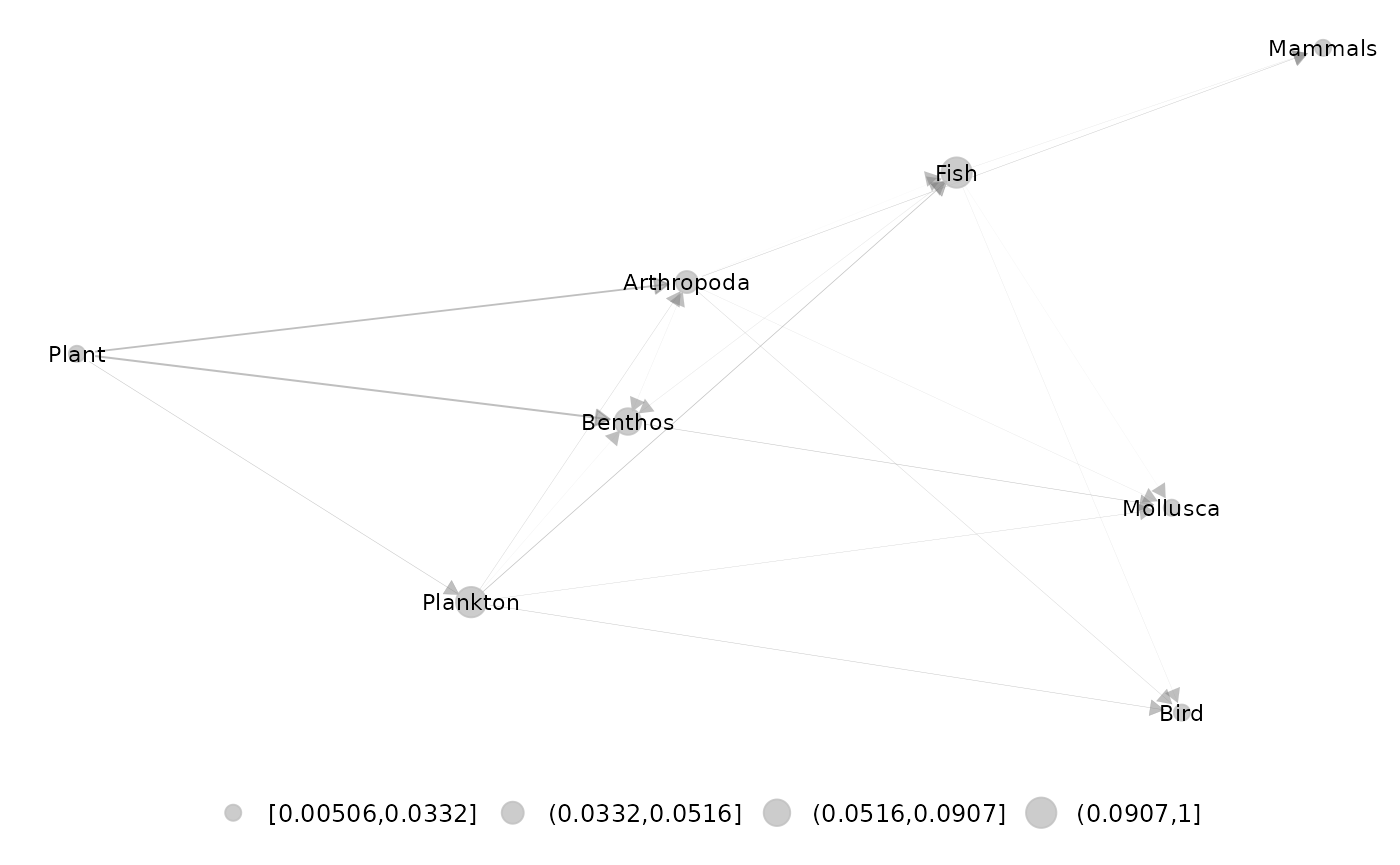
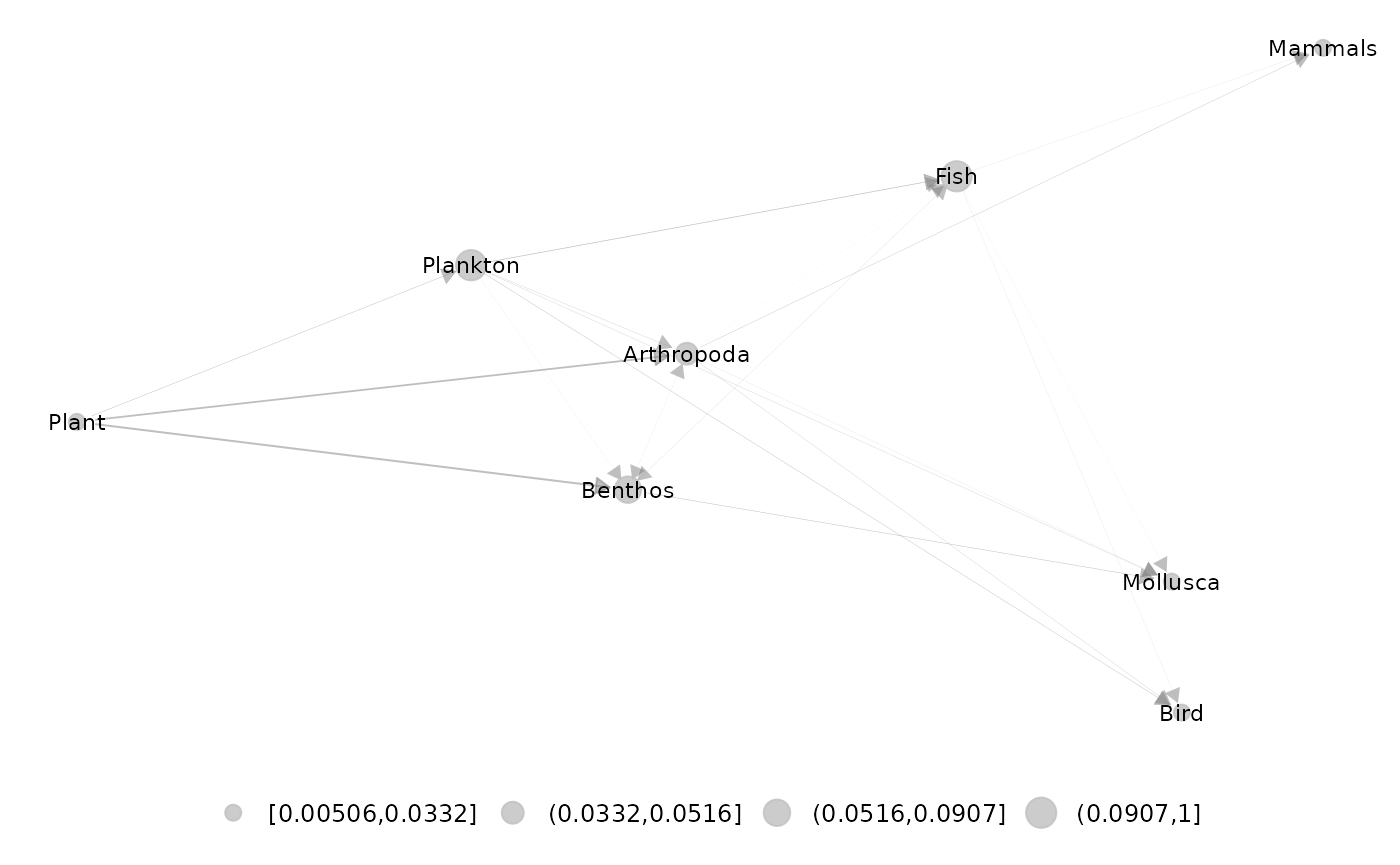
Built site for metanetwork: 0.1.2@bdfe743

diff --git a/reference/attach_layout.html b/reference/attach_layout.html
@@ -117,42 +117,40 @@ squeezing of the network</p></dd>
 <span class="r-in"><span class="co"># on angola dataset (metaweb)</span></span>
 <span class="r-in"><span class="va">meta_angola</span> <span class="op">=</span> <span class="fu">attach_layout</span><span class="op">(</span><span class="va">meta_angola</span>,beta <span class="op">=</span> <span class="fl">0.05</span><span class="op">)</span></span>
 <span class="r-msg co"><span class="r-pr">#&gt;</span> beta = 0.05</span>
-<span class="r-msg co"><span class="r-pr">#&gt;</span> Epoch: Iteration #100 error is: 907.410775019682</span>
-<span class="r-msg co"><span class="r-pr">#&gt;</span> Epoch: Iteration #200 error is: 217.12039627624</span>
-<span class="r-msg co"><span class="r-pr">#&gt;</span> Epoch: Iteration #300 error is: 217.258520669387</span>
+<span class="r-msg co"><span class="r-pr">#&gt;</span> Epoch: Iteration #100 error is: 907.410775023906</span>
+<span class="r-msg co"><span class="r-pr">#&gt;</span> Epoch: Iteration #200 error is: 217.136411528905</span>
+<span class="r-msg co"><span class="r-pr">#&gt;</span> Epoch: Iteration #300 error is: 217.261841760851</span>
 <span class="r-in"><span class="fu"><a href="https://rdrr.io/pkg/igraph/man/V.html" class="external-link">V</a></span><span class="op">(</span><span class="va">meta_angola</span><span class="op">$</span><span class="va">metaweb</span><span class="op">)</span><span class="op">$</span><span class="va">layout_beta0.05</span></span>
-<span class="r-out co"><span class="r-pr">#&gt;</span>  [1] -25.21541703  -5.88255217   4.64476720  -3.98169643 -12.06728541</span>
-<span class="r-out co"><span class="r-pr">#&gt;</span>  [6]  14.62067716  28.68986159   6.88435037  19.86173476  21.86623346</span>
-<span class="r-out co"><span class="r-pr">#&gt;</span> [11]  10.77391762  25.12727789 -14.71067527 -19.61246381 -29.13179573</span>
-<span class="r-out co"><span class="r-pr">#&gt;</span> [16]   0.09511713 -22.15256605   2.32850025  -2.11209611  17.01456460</span>
-<span class="r-out co"><span class="r-pr">#&gt;</span> [21]  -9.23073402 -16.91095269   8.89554269  12.68052089  -7.92466465</span>
-<span class="r-out co"><span class="r-pr">#&gt;</span> [26] -10.37640415 -12.82672632  18.65296424</span>
+<span class="r-out co"><span class="r-pr">#&gt;</span>  [1] -25.6389600  -9.7556157   4.6830265 -11.4779910  -6.0296047  11.0068779</span>
+<span class="r-out co"><span class="r-pr">#&gt;</span>  [7]  26.5035220   6.9704249  30.2453603  20.7763527  14.9616062  23.5376816</span>
+<span class="r-out co"><span class="r-pr">#&gt;</span> [13] -19.5243515 -14.5451524 -22.1550407  -1.9408720 -17.0855702   2.3439215</span>
+<span class="r-out co"><span class="r-pr">#&gt;</span> [19]   0.2421588  17.3964390  -4.0026558 -30.0075046   8.9809911  13.0759586</span>
+<span class="r-out co"><span class="r-pr">#&gt;</span> [25]  -7.8724348 -12.9126292 -16.7819986  19.0060599</span>
 <span class="r-in"><span class="co"># on a local network</span></span>
 <span class="r-in"><span class="va">meta_angola</span> <span class="op">=</span> <span class="fu">attach_layout</span><span class="op">(</span><span class="va">meta_angola</span>,g <span class="op">=</span> <span class="va">meta_angola</span><span class="op">$</span><span class="va">X1986</span>,beta <span class="op">=</span> <span class="fl">0.05</span><span class="op">)</span></span>
 <span class="r-msg co"><span class="r-pr">#&gt;</span> beta = 0.05</span>
-<span class="r-msg co"><span class="r-pr">#&gt;</span> Epoch: Iteration #100 error is: 907.410775018164</span>
-<span class="r-msg co"><span class="r-pr">#&gt;</span> Epoch: Iteration #200 error is: 217.112616755559</span>
-<span class="r-msg co"><span class="r-pr">#&gt;</span> Epoch: Iteration #300 error is: 217.231233731001</span>
+<span class="r-msg co"><span class="r-pr">#&gt;</span> Epoch: Iteration #100 error is: 907.410775019346</span>
+<span class="r-msg co"><span class="r-pr">#&gt;</span> Epoch: Iteration #200 error is: 217.131966156928</span>
+<span class="r-msg co"><span class="r-pr">#&gt;</span> Epoch: Iteration #300 error is: 217.258691083429</span>
 <span class="r-in"></span>
 <span class="r-in"><span class="co"># getting repetitions</span></span>
 <span class="r-in"><span class="va">meta_angola</span> <span class="op">=</span> <span class="fu">attach_layout</span><span class="op">(</span><span class="va">meta_angola</span>,beta <span class="op">=</span> <span class="fl">0.05</span><span class="op">)</span></span>
 <span class="r-msg co"><span class="r-pr">#&gt;</span> beta = 0.05</span>
-<span class="r-msg co"><span class="r-pr">#&gt;</span> Epoch: Iteration #100 error is: 907.410775018656</span>
-<span class="r-msg co"><span class="r-pr">#&gt;</span> Epoch: Iteration #200 error is: 217.129399239016</span>
-<span class="r-msg co"><span class="r-pr">#&gt;</span> Epoch: Iteration #300 error is: 217.243510216642</span>
+<span class="r-msg co"><span class="r-pr">#&gt;</span> Epoch: Iteration #100 error is: 907.410775018356</span>
+<span class="r-msg co"><span class="r-pr">#&gt;</span> Epoch: Iteration #200 error is: 217.117786075899</span>
+<span class="r-msg co"><span class="r-pr">#&gt;</span> Epoch: Iteration #300 error is: 217.229981255709</span>
 <span class="r-in"><span class="fu"><a href="https://rdrr.io/pkg/igraph/man/V.html" class="external-link">V</a></span><span class="op">(</span><span class="va">meta_angola</span><span class="op">$</span><span class="va">metaweb</span><span class="op">)</span><span class="op">$</span><span class="va">layout_beta0.05</span></span>
-<span class="r-out co"><span class="r-pr">#&gt;</span>  [1] -25.21541703  -5.88255217   4.64476720  -3.98169643 -12.06728541</span>
-<span class="r-out co"><span class="r-pr">#&gt;</span>  [6]  14.62067716  28.68986159   6.88435037  19.86173476  21.86623346</span>
-<span class="r-out co"><span class="r-pr">#&gt;</span> [11]  10.77391762  25.12727789 -14.71067527 -19.61246381 -29.13179573</span>
-<span class="r-out co"><span class="r-pr">#&gt;</span> [16]   0.09511713 -22.15256605   2.32850025  -2.11209611  17.01456460</span>
-<span class="r-out co"><span class="r-pr">#&gt;</span> [21]  -9.23073402 -16.91095269   8.89554269  12.68052089  -7.92466465</span>
-<span class="r-out co"><span class="r-pr">#&gt;</span> [26] -10.37640415 -12.82672632  18.65296424</span>
+<span class="r-out co"><span class="r-pr">#&gt;</span>  [1] -25.6389600  -9.7556157   4.6830265 -11.4779910  -6.0296047  11.0068779</span>
+<span class="r-out co"><span class="r-pr">#&gt;</span>  [7]  26.5035220   6.9704249  30.2453603  20.7763527  14.9616062  23.5376816</span>
+<span class="r-out co"><span class="r-pr">#&gt;</span> [13] -19.5243515 -14.5451524 -22.1550407  -1.9408720 -17.0855702   2.3439215</span>
+<span class="r-out co"><span class="r-pr">#&gt;</span> [19]   0.2421588  17.3964390  -4.0026558 -30.0075046   8.9809911  13.0759586</span>
+<span class="r-out co"><span class="r-pr">#&gt;</span> [25]  -7.8724348 -12.9126292 -16.7819986  19.0060599</span>
 <span class="r-in"><span class="fu"><a href="https://rdrr.io/pkg/igraph/man/V.html" class="external-link">V</a></span><span class="op">(</span><span class="va">meta_angola</span><span class="op">$</span><span class="va">metaweb</span><span class="op">)</span><span class="op">$</span><span class="va">layout_beta0.05_1</span></span>
-<span class="r-out co"><span class="r-pr">#&gt;</span>  [1] -23.9214665  -6.0611463   4.9796867  -4.1477482 -16.2672988  15.5936384</span>
-<span class="r-out co"><span class="r-pr">#&gt;</span>  [7]  31.6737329   7.3417094  24.4595049  21.7964090  11.4736116  27.8662484</span>
-<span class="r-out co"><span class="r-pr">#&gt;</span> [13] -18.5616677  -9.9319084 -27.4171642  -1.8780777 -21.0843257   2.5621578</span>
-<span class="r-out co"><span class="r-pr">#&gt;</span> [19]   0.3962942  18.1517313 -13.7140379 -32.1776963   9.4658456  13.5497529</span>
-<span class="r-out co"><span class="r-pr">#&gt;</span> [25]  -8.1982645 -11.6922429 -14.0770582  19.8197801</span>
+<span class="r-out co"><span class="r-pr">#&gt;</span>  [1] -23.3186850  -6.2165966   4.9085027  -4.2336514 -14.5115860  15.4170896</span>
+<span class="r-out co"><span class="r-pr">#&gt;</span>  [7]  27.3224881   7.2323740  31.1605407  21.4220307  11.3183882  24.2510199</span>
+<span class="r-out co"><span class="r-pr">#&gt;</span> [13]  -8.5104492 -18.3389087 -26.7615482  -1.9318675 -20.6581069   2.4961652</span>
+<span class="r-out co"><span class="r-pr">#&gt;</span> [19]   0.3289611  17.9402796 -10.8789239 -31.4643056   9.3316411  13.3211232</span>
+<span class="r-out co"><span class="r-pr">#&gt;</span> [25] -16.2442774 -12.7309804 -10.2742678  19.6235503</span>
 <span class="r-in"></span>
 </code></pre></div>
     </div>

diff --git a/reference/diff_plot.html b/reference/diff_plot.html
@@ -146,9 +146,9 @@ In that case, y-axis is the trophic level and x-axis is the layout axis</p></dd>
 <span class="r-msg co"><span class="r-pr">#&gt;</span> plotting: X2003_Species - X1986_Species</span>
 <span class="r-msg co"><span class="r-pr">#&gt;</span> mode is TL-tsne</span>
 <span class="r-msg co"><span class="r-pr">#&gt;</span> beta = 0.05</span>
-<span class="r-msg co"><span class="r-pr">#&gt;</span> Epoch: Iteration #100 error is: 907.373467953042</span>
-<span class="r-msg co"><span class="r-pr">#&gt;</span> Epoch: Iteration #200 error is: 217.140626357356</span>
-<span class="r-msg co"><span class="r-pr">#&gt;</span> Epoch: Iteration #300 error is: 217.258768948108</span>
+<span class="r-msg co"><span class="r-pr">#&gt;</span> Epoch: Iteration #100 error is: 907.37346795637</span>
+<span class="r-msg co"><span class="r-pr">#&gt;</span> Epoch: Iteration #200 error is: 217.147716175259</span>
+<span class="r-msg co"><span class="r-pr">#&gt;</span> Epoch: Iteration #300 error is: 217.274982309058</span>
 <span class="r-msg co"><span class="r-pr">#&gt;</span> Registered S3 method overwritten by 'GGally':</span>
 <span class="r-msg co"><span class="r-pr">#&gt;</span>   method from   </span>
 <span class="r-msg co"><span class="r-pr">#&gt;</span>   +.gg   ggplot2</span>
@@ -159,19 +159,19 @@ In that case, y-axis is the trophic level and x-axis is the layout axis</p></dd>
 <span class="r-msg co"><span class="r-pr">#&gt;</span> mode is TL-tsne</span>
 <span class="r-msg co"><span class="r-pr">#&gt;</span> plotting: X2003_Species - X1986_Species</span>
 <span class="r-msg co"><span class="r-pr">#&gt;</span> beta = 0.05</span>
-<span class="r-msg co"><span class="r-pr">#&gt;</span> Epoch: Iteration #100 error is: 907.373467948118</span>
-<span class="r-msg co"><span class="r-pr">#&gt;</span> Epoch: Iteration #200 error is: 217.129387868235</span>
-<span class="r-msg co"><span class="r-pr">#&gt;</span> Epoch: Iteration #300 error is: 217.262148904185</span>
+<span class="r-msg co"><span class="r-pr">#&gt;</span> Epoch: Iteration #100 error is: 907.373467956064</span>
+<span class="r-msg co"><span class="r-pr">#&gt;</span> Epoch: Iteration #200 error is: 217.098076352549</span>
+<span class="r-msg co"><span class="r-pr">#&gt;</span> Epoch: Iteration #300 error is: 217.208611860032</span>
 <span class="r-msg co"><span class="r-pr">#&gt;</span> x_max = 1356.85756899361</span>
-<span class="r-msg co"><span class="r-pr">#&gt;</span> y_max = 359.872048559679</span>
+<span class="r-msg co"><span class="r-pr">#&gt;</span> y_max = 361.335588058789</span>
 <span class="r-out co"><span class="r-pr">#&gt;</span> NULL</span>
 <span class="r-in"></span>
 <span class="r-in"><span class="co">#computing and using metaweb layout for diffplot</span></span>
 <span class="r-in"><span class="va">meta_angola</span> <span class="op">=</span> <span class="fu"><a href="attach_layout.html">attach_layout</a></span><span class="op">(</span><span class="va">meta_angola</span>,beta <span class="op">=</span> <span class="fl">0.1</span><span class="op">)</span></span>
 <span class="r-msg co"><span class="r-pr">#&gt;</span> beta = 0.1</span>
-<span class="r-msg co"><span class="r-pr">#&gt;</span> Epoch: Iteration #100 error is: 838.972264707188</span>
-<span class="r-msg co"><span class="r-pr">#&gt;</span> Epoch: Iteration #200 error is: 199.589204570692</span>
-<span class="r-msg co"><span class="r-pr">#&gt;</span> Epoch: Iteration #300 error is: 199.589190200879</span>
+<span class="r-msg co"><span class="r-pr">#&gt;</span> Epoch: Iteration #100 error is: 838.976047456321</span>
+<span class="r-msg co"><span class="r-pr">#&gt;</span> Epoch: Iteration #200 error is: 199.589199202069</span>
+<span class="r-msg co"><span class="r-pr">#&gt;</span> Epoch: Iteration #300 error is: 199.589190200868</span>
 <span class="r-in"><span class="fu">diff_plot</span><span class="op">(</span>g1 <span class="op">=</span> <span class="va">meta_angola</span><span class="op">$</span><span class="va">X2003</span>,g2 <span class="op">=</span> <span class="va">meta_angola</span><span class="op">$</span><span class="va">X1986</span>,metanetwork <span class="op">=</span> <span class="va">meta_angola</span>,</span>
 <span class="r-in">beta <span class="op">=</span> <span class="fl">0.1</span>,layout_metaweb <span class="op">=</span> <span class="cn">TRUE</span><span class="op">)</span></span>
 <span class="r-msg co"><span class="r-pr">#&gt;</span> mode is TL-tsne</span>
@@ -184,7 +184,7 @@ In that case, y-axis is the trophic level and x-axis is the layout axis</p></dd>
 <span class="r-msg co"><span class="r-pr">#&gt;</span> mode is TL-tsne</span>
 <span class="r-msg co"><span class="r-pr">#&gt;</span> plotting: X2003_Species - X1986_Species</span>
 <span class="r-msg co"><span class="r-pr">#&gt;</span> x_max = 1259.92651522773</span>
-<span class="r-msg co"><span class="r-pr">#&gt;</span> y_max = 340.638960573597</span>
+<span class="r-msg co"><span class="r-pr">#&gt;</span> y_max = 340.638960574872</span>
 <span class="r-out co"><span class="r-pr">#&gt;</span> NULL</span>
 <span class="r-in"></span>
 <span class="r-in"><span class="co">##contrasting alpha </span></span>
@@ -196,9 +196,9 @@ In that case, y-axis is the trophic level and x-axis is the layout axis</p></dd>
 <span class="r-msg co"><span class="r-pr">#&gt;</span> plotting: X2003_Species - X1986_Species</span>
 <span class="r-msg co"><span class="r-pr">#&gt;</span> mode is TL-tsne</span>
 <span class="r-msg co"><span class="r-pr">#&gt;</span> beta = 0.05</span>
-<span class="r-msg co"><span class="r-pr">#&gt;</span> Epoch: Iteration #100 error is: 907.373467954469</span>
-<span class="r-msg co"><span class="r-pr">#&gt;</span> Epoch: Iteration #200 error is: 217.109019617144</span>
-<span class="r-msg co"><span class="r-pr">#&gt;</span> Epoch: Iteration #300 error is: 217.223074948919</span>
+<span class="r-msg co"><span class="r-pr">#&gt;</span> Epoch: Iteration #100 error is: 907.373467974623</span>
+<span class="r-msg co"><span class="r-pr">#&gt;</span> Epoch: Iteration #200 error is: 217.113847830464</span>
+<span class="r-msg co"><span class="r-pr">#&gt;</span> Epoch: Iteration #300 error is: 217.240080661248</span>
 <span class="r-plt img"><img src="diff_plot-3.png" alt="" width="700" height="433"></span>
 <span class="r-in"><span class="co">#per node           </span></span>
 <span class="r-in"><span class="fu">diff_plot</span><span class="op">(</span>metanetwork <span class="op">=</span> <span class="va">meta_angola</span>,g1 <span class="op">=</span> <span class="va">meta_angola</span><span class="op">$</span><span class="va">X2003</span>,g2 <span class="op">=</span> <span class="va">meta_angola</span><span class="op">$</span><span class="va">X1986</span>,beta <span class="op">=</span> <span class="fl">0.05</span>,</span>
@@ -208,9 +208,9 @@ In that case, y-axis is the trophic level and x-axis is the layout axis</p></dd>
 <span class="r-msg co"><span class="r-pr">#&gt;</span> plotting: X2003_Species - X1986_Species</span>
 <span class="r-msg co"><span class="r-pr">#&gt;</span> mode is TL-tsne</span>
 <span class="r-msg co"><span class="r-pr">#&gt;</span> beta = 0.05</span>
-<span class="r-msg co"><span class="r-pr">#&gt;</span> Epoch: Iteration #100 error is: 907.373467952308</span>
-<span class="r-msg co"><span class="r-pr">#&gt;</span> Epoch: Iteration #200 error is: 217.109578769377</span>
-<span class="r-msg co"><span class="r-pr">#&gt;</span> Epoch: Iteration #300 error is: 217.237010586673</span>
+<span class="r-msg co"><span class="r-pr">#&gt;</span> Epoch: Iteration #100 error is: 907.373467951033</span>
+<span class="r-msg co"><span class="r-pr">#&gt;</span> Epoch: Iteration #200 error is: 217.105171965382</span>
+<span class="r-msg co"><span class="r-pr">#&gt;</span> Epoch: Iteration #300 error is: 217.211915553521</span>
 <span class="r-plt img"><img src="diff_plot-4.png" alt="" width="700" height="433"></span>
 <span class="r-in"></span>
 <span class="r-in"></span>

diff --git a/reference/vismetaNetwork.html b/reference/vismetaNetwork.html
@@ -133,28 +133,28 @@ In that case, y-axis is the trophic level and x-axis is the layout axis</p></dd>
 <span class="r-in"><span class="co">#on angola dataset</span></span>
 <span class="r-in"><span class="va">meta_angola</span> <span class="op">=</span> <span class="fu"><a href="attach_layout.html">attach_layout</a></span><span class="op">(</span><span class="va">meta_angola</span>, beta <span class="op">=</span> <span class="fl">0.05</span><span class="op">)</span></span>
 <span class="r-msg co"><span class="r-pr">#&gt;</span> beta = 0.05</span>
-<span class="r-msg co"><span class="r-pr">#&gt;</span> Epoch: Iteration #100 error is: 907.410775020173</span>
-<span class="r-msg co"><span class="r-pr">#&gt;</span> Epoch: Iteration #200 error is: 217.11304821606</span>
-<span class="r-msg co"><span class="r-pr">#&gt;</span> Epoch: Iteration #300 error is: 217.229625631118</span>
+<span class="r-msg co"><span class="r-pr">#&gt;</span> Epoch: Iteration #100 error is: 907.410775018555</span>
+<span class="r-msg co"><span class="r-pr">#&gt;</span> Epoch: Iteration #200 error is: 217.143328898056</span>
+<span class="r-msg co"><span class="r-pr">#&gt;</span> Epoch: Iteration #300 error is: 217.276258590891</span>
 <span class="r-in"><span class="fu">vismetaNetwork</span><span class="op">(</span><span class="va">meta_angola</span>, beta <span class="op">=</span> <span class="fl">0.05</span><span class="op">)</span></span>
 <span class="r-msg co"><span class="r-pr">#&gt;</span> x_max = 1259.92651522773</span>
-<span class="r-msg co"><span class="r-pr">#&gt;</span> y_max = 357.401635619559</span>
+<span class="r-msg co"><span class="r-pr">#&gt;</span> y_max = 369.42349052441</span>
 <span class="r-err co"><span class="r-pr">#&gt;</span> <span class="error">Error in x$width %||% settings$fig.width * settings$dpi:</span> non-numeric argument to binary operator</span>
 <span class="r-in"><span class="co"># flipping coordinates and controlling x_y_range</span></span>
 <span class="r-in"><span class="fu">vismetaNetwork</span><span class="op">(</span><span class="va">meta_angola</span>, beta <span class="op">=</span> <span class="fl">0.05</span>,flip_coords <span class="op">=</span> <span class="cn">TRUE</span>,x_y_range <span class="op">=</span> <span class="fu"><a href="https://rdrr.io/r/base/c.html" class="external-link">c</a></span><span class="op">(</span><span class="fl">50</span>,<span class="fl">200</span><span class="op">)</span><span class="op">)</span></span>
-<span class="r-msg co"><span class="r-pr">#&gt;</span> x_max = 1429.60654247824</span>
+<span class="r-msg co"><span class="r-pr">#&gt;</span> x_max = 1477.69396209764</span>
 <span class="r-msg co"><span class="r-pr">#&gt;</span> y_max = 314.981628806931</span>
 <span class="r-err co"><span class="r-pr">#&gt;</span> <span class="error">Error in x$width %||% settings$fig.width * settings$dpi:</span> non-numeric argument to binary operator</span>
 <span class="r-in"><span class="co">#adding a legend</span></span>
 <span class="r-in"><span class="fu">vismetaNetwork</span><span class="op">(</span><span class="va">meta_angola</span>,legend <span class="op">=</span> <span class="st">"Phylum"</span>, beta <span class="op">=</span> <span class="fl">0.05</span><span class="op">)</span></span>
 <span class="r-msg co"><span class="r-pr">#&gt;</span> x_max = 1259.92651522773</span>
-<span class="r-msg co"><span class="r-pr">#&gt;</span> y_max = 357.401635619559</span>
+<span class="r-msg co"><span class="r-pr">#&gt;</span> y_max = 369.42349052441</span>
 <span class="r-err co"><span class="r-pr">#&gt;</span> <span class="error">Error in x$width %||% settings$fig.width * settings$dpi:</span> non-numeric argument to binary operator</span>
 <span class="r-in"><span class="co">#use metaweb layout to represent a local network</span></span>
 <span class="r-in"><span class="fu">vismetaNetwork</span><span class="op">(</span>metanetwork <span class="op">=</span> <span class="va">meta_angola</span>,g <span class="op">=</span> <span class="va">meta_angola</span><span class="op">$</span><span class="va">X2003</span>,legend <span class="op">=</span> <span class="st">"Phylum"</span>, beta <span class="op">=</span> <span class="fl">0.05</span>,</span>
 <span class="r-in">layout_metaweb<span class="op">=</span><span class="cn">TRUE</span><span class="op">)</span></span>
 <span class="r-msg co"><span class="r-pr">#&gt;</span> x_max = 1259.92651522773</span>
-<span class="r-msg co"><span class="r-pr">#&gt;</span> y_max = 357.401635619559</span>
+<span class="r-msg co"><span class="r-pr">#&gt;</span> y_max = 369.42349052441</span>
 <span class="r-err co"><span class="r-pr">#&gt;</span> <span class="error">Error in x$width %||% settings$fig.width * settings$dpi:</span> non-numeric argument to binary operator</span>
 <span class="r-in"></span>
 <span class="r-in"><span class="co">#custom visNetwork parameters</span></span>
@@ -165,7 +165,7 @@ In that case, y-axis is the trophic level and x-axis is the layout axis</p></dd>
 <span class="r-in"><span class="fu">vismetaNetwork</span><span class="op">(</span><span class="va">meta_angola</span>,legend <span class="op">=</span> <span class="st">"Phylum"</span>, beta <span class="op">=</span> <span class="fl">0.05</span>,</span>
 <span class="r-in">visNetwork.config <span class="op">=</span> <span class="va">visNetwork.custom</span><span class="op">)</span></span>
 <span class="r-msg co"><span class="r-pr">#&gt;</span> x_max = 1259.92651522773</span>
-<span class="r-msg co"><span class="r-pr">#&gt;</span> y_max = 357.401635619559</span>
+<span class="r-msg co"><span class="r-pr">#&gt;</span> y_max = 369.42349052441</span>
 <span class="r-err co"><span class="r-pr">#&gt;</span> <span class="error">Error in x$width %||% settings$fig.width * settings$dpi:</span> non-numeric argument to binary operator</span>
 <span class="r-in"></span>
 <span class="r-in"></span>

diff --git a/reference/append_agg_nets.html b/reference/append_agg_nets.html
@@ -189,9 +189,9 @@ the hierarchy describes in <code>trophicTable</code></p>
 <span class="r-out co"><span class="r-pr">#&gt;</span> + ... omitted several edges</span>
 <span class="r-out co"><span class="r-pr">#&gt;</span> </span>
 <span class="r-out co"><span class="r-pr">#&gt;</span> $metaweb_Phylum</span>
-<span class="r-out co"><span class="r-pr">#&gt;</span> IGRAPH f9d41d4 DNW- 8 24 -- metaweb</span>
+<span class="r-out co"><span class="r-pr">#&gt;</span> IGRAPH 4d7c4b2 DNW- 8 24 -- metaweb</span>
 <span class="r-out co"><span class="r-pr">#&gt;</span> + attr: res (g/c), name (g/c), name (v/c), ab (v/n), weight (e/n)</span>
-<span class="r-out co"><span class="r-pr">#&gt;</span> + edges from f9d41d4 (vertex names):</span>
+<span class="r-out co"><span class="r-pr">#&gt;</span> + edges from 4d7c4b2 (vertex names):</span>
 <span class="r-out co"><span class="r-pr">#&gt;</span>  [1] Arthropoda-&gt;Benthos    Arthropoda-&gt;Bird       Arthropoda-&gt;Fish      </span>
 <span class="r-out co"><span class="r-pr">#&gt;</span>  [4] Arthropoda-&gt;Mammals    Arthropoda-&gt;Mollusca   Benthos   -&gt;Arthropoda</span>
 <span class="r-out co"><span class="r-pr">#&gt;</span>  [7] Benthos   -&gt;Benthos    Benthos   -&gt;Fish       Benthos   -&gt;Mollusca  </span>
@@ -202,9 +202,9 @@ the hierarchy describes in <code>trophicTable</code></p>
 <span class="r-out co"><span class="r-pr">#&gt;</span> [22] Plant     -&gt;Benthos    Plant     -&gt;Fish       Plant     -&gt;Plankton  </span>
 <span class="r-out co"><span class="r-pr">#&gt;</span> </span>
 <span class="r-out co"><span class="r-pr">#&gt;</span> $X1986_Phylum</span>
-<span class="r-out co"><span class="r-pr">#&gt;</span> IGRAPH 1a53556 DNW- 8 24 -- X1986</span>
+<span class="r-out co"><span class="r-pr">#&gt;</span> IGRAPH f2377ea DNW- 8 24 -- X1986</span>
 <span class="r-out co"><span class="r-pr">#&gt;</span> + attr: res (g/c), name (g/c), name (v/c), ab (v/n), weight (e/n)</span>
-<span class="r-out co"><span class="r-pr">#&gt;</span> + edges from 1a53556 (vertex names):</span>
+<span class="r-out co"><span class="r-pr">#&gt;</span> + edges from f2377ea (vertex names):</span>
 <span class="r-out co"><span class="r-pr">#&gt;</span>  [1] Arthropoda-&gt;Benthos    Arthropoda-&gt;Bird       Arthropoda-&gt;Fish      </span>
 <span class="r-out co"><span class="r-pr">#&gt;</span>  [4] Arthropoda-&gt;Mammals    Arthropoda-&gt;Mollusca   Benthos   -&gt;Arthropoda</span>
 <span class="r-out co"><span class="r-pr">#&gt;</span>  [7] Benthos   -&gt;Benthos    Benthos   -&gt;Fish       Benthos   -&gt;Mollusca  </span>
@@ -215,9 +215,9 @@ the hierarchy describes in <code>trophicTable</code></p>
 <span class="r-out co"><span class="r-pr">#&gt;</span> [22] Plant     -&gt;Benthos    Plant     -&gt;Fish       Plant     -&gt;Plankton  </span>
 <span class="r-out co"><span class="r-pr">#&gt;</span> </span>
 <span class="r-out co"><span class="r-pr">#&gt;</span> $X2003_Phylum</span>
-<span class="r-out co"><span class="r-pr">#&gt;</span> IGRAPH a9df476 DNW- 8 24 -- X2003</span>
+<span class="r-out co"><span class="r-pr">#&gt;</span> IGRAPH 2be0fdd DNW- 8 24 -- X2003</span>
 <span class="r-out co"><span class="r-pr">#&gt;</span> + attr: res (g/c), name (g/c), name (v/c), ab (v/n), weight (e/n)</span>
-<span class="r-out co"><span class="r-pr">#&gt;</span> + edges from a9df476 (vertex names):</span>
+<span class="r-out co"><span class="r-pr">#&gt;</span> + edges from 2be0fdd (vertex names):</span>
 <span class="r-out co"><span class="r-pr">#&gt;</span>  [1] Arthropoda-&gt;Benthos    Arthropoda-&gt;Bird       Arthropoda-&gt;Fish      </span>
 <span class="r-out co"><span class="r-pr">#&gt;</span>  [4] Arthropoda-&gt;Mammals    Arthropoda-&gt;Mollusca   Benthos   -&gt;Arthropoda</span>
 <span class="r-out co"><span class="r-pr">#&gt;</span>  [7] Benthos   -&gt;Benthos    Benthos   -&gt;Fish       Benthos   -&gt;Mollusca  </span>

diff --git a/reference/ggmetanet.html b/reference/ggmetanet.html
@@ -146,9 +146,9 @@ should be asked in interactive mode to the user</p></dd>
 <span class="r-in"><span class="fu">ggmetanet</span><span class="op">(</span><span class="va">meta0</span><span class="op">)</span></span>
 <span class="r-msg co"><span class="r-pr">#&gt;</span> mode is TL-tsne</span>
 <span class="r-msg co"><span class="r-pr">#&gt;</span> beta = 0.1</span>
-<span class="r-msg co"><span class="r-pr">#&gt;</span> Epoch: Iteration #100 error is: 145.616782849229</span>
-<span class="r-msg co"><span class="r-pr">#&gt;</span> Epoch: Iteration #200 error is: 34.673213488579</span>
-<span class="r-msg co"><span class="r-pr">#&gt;</span> Epoch: Iteration #300 error is: 34.673159030623</span>
+<span class="r-msg co"><span class="r-pr">#&gt;</span> Epoch: Iteration #100 error is: 145.616733163417</span>
+<span class="r-msg co"><span class="r-pr">#&gt;</span> Epoch: Iteration #200 error is: 34.6730804171348</span>
+<span class="r-msg co"><span class="r-pr">#&gt;</span> Epoch: Iteration #300 error is: 34.6730753487294</span>
 <span class="r-wrn co"><span class="r-pr">#&gt;</span> <span class="warning">Warning: </span>node.size is invariant; size.cut ignored</span>
 <span class="r-wrn co"><span class="r-pr">#&gt;</span> <span class="warning">Warning: </span>Removed 5 rows containing missing values (geom_segment).</span>
 <span class="r-wrn co"><span class="r-pr">#&gt;</span> <span class="warning">Warning: </span>Removed 5 rows containing missing values (geom_point).</span>
@@ -160,9 +160,9 @@ should be asked in interactive mode to the user</p></dd>
 <span class="r-in"><span class="fu">ggmetanet</span><span class="op">(</span><span class="va">meta_angola</span>,legend <span class="op">=</span> <span class="st">'Phylum'</span>,beta <span class="op">=</span> <span class="fl">0.05</span><span class="op">)</span></span>
 <span class="r-msg co"><span class="r-pr">#&gt;</span> mode is TL-tsne</span>
 <span class="r-msg co"><span class="r-pr">#&gt;</span> beta = 0.05</span>
-<span class="r-msg co"><span class="r-pr">#&gt;</span> Epoch: Iteration #100 error is: 907.410775019685</span>
-<span class="r-msg co"><span class="r-pr">#&gt;</span> Epoch: Iteration #200 error is: 217.124017163103</span>
-<span class="r-msg co"><span class="r-pr">#&gt;</span> Epoch: Iteration #300 error is: 217.253759538968</span>
+<span class="r-msg co"><span class="r-pr">#&gt;</span> Epoch: Iteration #100 error is: 907.410775019398</span>
+<span class="r-msg co"><span class="r-pr">#&gt;</span> Epoch: Iteration #200 error is: 217.134935909294</span>
+<span class="r-msg co"><span class="r-pr">#&gt;</span> Epoch: Iteration #300 error is: 217.260061225803</span>
 <span class="r-plt img"><img src="ggmetanet-2.png" alt="" width="700" height="433"></span>
 <span class="r-in"></span>
 </code></pre></div>

diff --git a/reference/metanet_build_pipe.html b/reference/metanet_build_pipe.html
@@ -105,8 +105,8 @@ squeezing of the network</p></dd>
 <span class="r-msg co"><span class="r-pr">#&gt;</span> computing trophic levels</span>
 <span class="r-msg co"><span class="r-pr">#&gt;</span> attaching layout for beta= 0.1</span>
 <span class="r-msg co"><span class="r-pr">#&gt;</span> beta = 0.1</span>
-<span class="r-msg co"><span class="r-pr">#&gt;</span> Epoch: Iteration #100 error is: 431.402455891914</span>
-<span class="r-msg co"><span class="r-pr">#&gt;</span> Epoch: Iteration #200 error is: 101.98005121842</span>
+<span class="r-msg co"><span class="r-pr">#&gt;</span> Epoch: Iteration #100 error is: 431.402455891916</span>
+<span class="r-msg co"><span class="r-pr">#&gt;</span> Epoch: Iteration #200 error is: 101.980051214803</span>
 <span class="r-msg co"><span class="r-pr">#&gt;</span> Epoch: Iteration #300 error is: 101.980051216652</span>
 <span class="r-in"><span class="fu"><a href="ggmetanet.html">ggmetanet</a></span><span class="op">(</span><span class="va">meta0</span><span class="op">)</span></span>
 <span class="r-msg co"><span class="r-pr">#&gt;</span> mode is TL-tsne</span>
@@ -119,9 +119,9 @@ squeezing of the network</p></dd>
 <span class="r-msg co"><span class="r-pr">#&gt;</span> computing trophic levels</span>
 <span class="r-msg co"><span class="r-pr">#&gt;</span> attaching layout for beta= 0.05</span>
 <span class="r-msg co"><span class="r-pr">#&gt;</span> beta = 0.05</span>
-<span class="r-msg co"><span class="r-pr">#&gt;</span> Epoch: Iteration #100 error is: 907.410775017959</span>
-<span class="r-msg co"><span class="r-pr">#&gt;</span> Epoch: Iteration #200 error is: 217.114301009413</span>
-<span class="r-msg co"><span class="r-pr">#&gt;</span> Epoch: Iteration #300 error is: 217.232230836192</span>
+<span class="r-msg co"><span class="r-pr">#&gt;</span> Epoch: Iteration #100 error is: 907.410775019944</span>
+<span class="r-msg co"><span class="r-pr">#&gt;</span> Epoch: Iteration #200 error is: 217.116103102982</span>
+<span class="r-msg co"><span class="r-pr">#&gt;</span> Epoch: Iteration #300 error is: 217.238198618876</span>
 <span class="r-in"></span>
 </code></pre></div>
     </div>

diff --git a/reference/metanet_pipe.html b/reference/metanet_pipe.html
@@ -105,8 +105,8 @@ squeezing of the network</p></dd>
 <span class="r-msg co"><span class="r-pr">#&gt;</span> computing trophic levels</span>
 <span class="r-msg co"><span class="r-pr">#&gt;</span> attaching layout for beta= 0.1</span>
 <span class="r-msg co"><span class="r-pr">#&gt;</span> beta = 0.1</span>
-<span class="r-msg co"><span class="r-pr">#&gt;</span> Epoch: Iteration #100 error is: 431.402455891914</span>
-<span class="r-msg co"><span class="r-pr">#&gt;</span> Epoch: Iteration #200 error is: 101.980051217342</span>
+<span class="r-msg co"><span class="r-pr">#&gt;</span> Epoch: Iteration #100 error is: 431.402455891915</span>
+<span class="r-msg co"><span class="r-pr">#&gt;</span> Epoch: Iteration #200 error is: 101.980051219397</span>
 <span class="r-msg co"><span class="r-pr">#&gt;</span> Epoch: Iteration #300 error is: 101.980051216652</span>
 <span class="r-in"><span class="fu"><a href="ggmetanet.html">ggmetanet</a></span><span class="op">(</span><span class="va">meta0</span><span class="op">)</span></span>
 <span class="r-msg co"><span class="r-pr">#&gt;</span> mode is TL-tsne</span>
@@ -119,9 +119,9 @@ squeezing of the network</p></dd>
 <span class="r-msg co"><span class="r-pr">#&gt;</span> computing trophic levels</span>
 <span class="r-msg co"><span class="r-pr">#&gt;</span> attaching layout for beta= 0.1</span>
 <span class="r-msg co"><span class="r-pr">#&gt;</span> beta = 0.1</span>
-<span class="r-msg co"><span class="r-pr">#&gt;</span> Epoch: Iteration #100 error is: 838.98079109791</span>
-<span class="r-msg co"><span class="r-pr">#&gt;</span> Epoch: Iteration #200 error is: 199.589201056172</span>
-<span class="r-msg co"><span class="r-pr">#&gt;</span> Epoch: Iteration #300 error is: 199.589190200876</span>
+<span class="r-msg co"><span class="r-pr">#&gt;</span> Epoch: Iteration #100 error is: 838.978786454756</span>
+<span class="r-msg co"><span class="r-pr">#&gt;</span> Epoch: Iteration #200 error is: 199.589208719939</span>
+<span class="r-msg co"><span class="r-pr">#&gt;</span> Epoch: Iteration #300 error is: 199.589190200875</span>
 <span class="r-in"></span>
 </code></pre></div>
     </div>

diff --git a/reference/pipe.html b/reference/pipe.html
@@ -78,9 +78,9 @@ function composition into a series of imperative statements.</p>
 <span class="r-in"><span class="kw"><a href="https://rdrr.io/r/base/library.html" class="external-link">library</a></span><span class="op">(</span><span class="va"><a href="https://github.com/MarcOhlmann/metanetwork" class="external-link">metanetwork</a></span><span class="op">)</span></span>
 <span class="r-in"><span class="va">meta_angola</span> <span class="op">%&gt;%</span> <span class="fu"><a href="attach_layout.html">attach_layout</a></span><span class="op">(</span><span class="op">)</span> <span class="op">%&gt;%</span> <span class="fu"><a href="ggmetanet.html">ggmetanet</a></span><span class="op">(</span><span class="op">)</span></span>
 <span class="r-msg co"><span class="r-pr">#&gt;</span> beta = 0.1</span>
-<span class="r-msg co"><span class="r-pr">#&gt;</span> Epoch: Iteration #100 error is: 838.970674664796</span>
-<span class="r-msg co"><span class="r-pr">#&gt;</span> Epoch: Iteration #200 error is: 199.589206436984</span>
-<span class="r-msg co"><span class="r-pr">#&gt;</span> Epoch: Iteration #300 error is: 199.58919020087</span>
+<span class="r-msg co"><span class="r-pr">#&gt;</span> Epoch: Iteration #100 error is: 838.994466867672</span>
+<span class="r-msg co"><span class="r-pr">#&gt;</span> Epoch: Iteration #200 error is: 199.589200441849</span>
+<span class="r-msg co"><span class="r-pr">#&gt;</span> Epoch: Iteration #300 error is: 199.589190200879</span>
 <span class="r-msg co"><span class="r-pr">#&gt;</span> mode is TL-tsne</span>
 <span class="r-plt img"><img src="pipe-1.png" alt="" width="700" height="433"></span>
 </code></pre></div>

diff --git a/articles/pyramid.html b/articles/pyramid.html
@@ -87,7 +87,7 @@
       <h1 data-toc-skip>Pyramid metanetwork example using ‘metanetwork’</h1>
                         <h4 data-toc-skip class="author">Marc Ohlmann</h4>
             
-            <h4 data-toc-skip class="date">2022-03-30</h4>
+            <h4 data-toc-skip class="date">2022-04-20</h4>
       
       <small class="dont-index">Source: <a href="https://github.com/MarcOhlmann/metanetwork/blob/HEAD/vignettes/pyramid.Rmd" class="external-link"><code>vignettes/pyramid.Rmd</code></a></small>
       <div class="hidden name"><code>pyramid.Rmd</code></div>

diff --git a/articles/angola.html b/articles/angola.html
@@ -87,7 +87,7 @@
       <h1 data-toc-skip>Angola dataset analysis</h1>
                         <h4 data-toc-skip class="author">Marc Ohlmann</h4>
             
-            <h4 data-toc-skip class="date">2022-03-30</h4>
+            <h4 data-toc-skip class="date">2022-04-20</h4>
       
       <small class="dont-index">Source: <a href="https://github.com/MarcOhlmann/metanetwork/blob/HEAD/vignettes/angola.Rmd" class="external-link"><code>vignettes/angola.Rmd</code></a></small>
       <div class="hidden name"><code>angola.Rmd</code></div>
